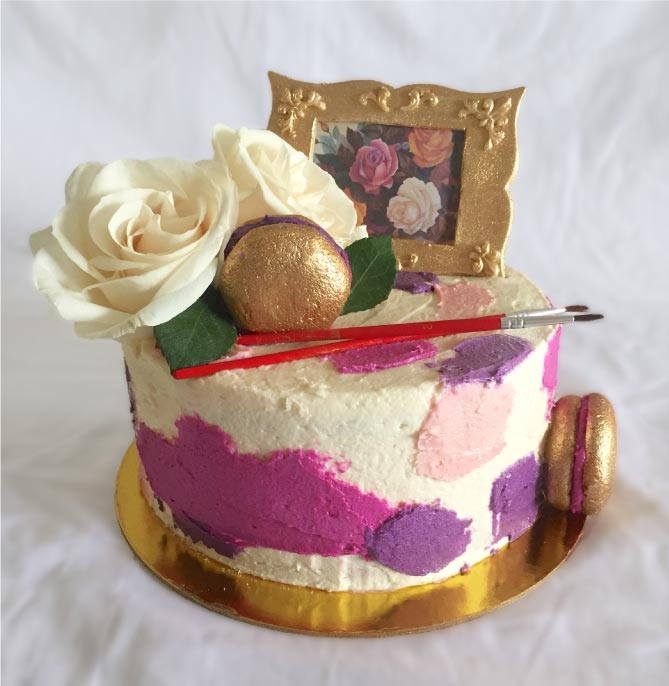
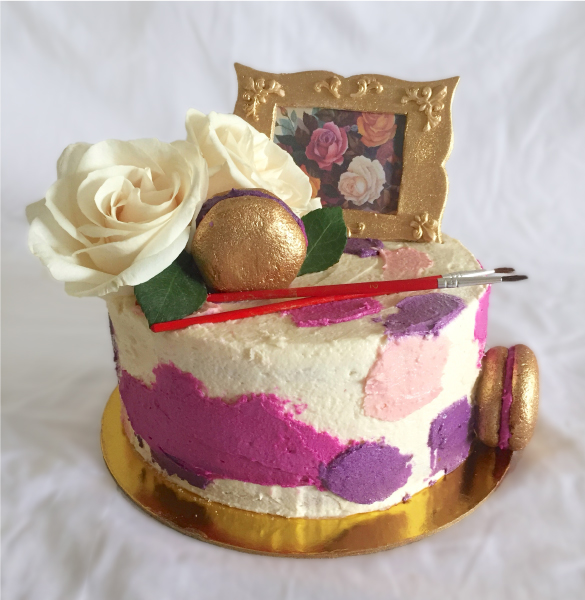
resize imgs and fixed some margin

diff --git a/sass/index.css b/sass/index.css
@@ -1050,8 +1050,7 @@ body {
             align-items: center;
   }
   .container .main__seller .products-row .products-row__column--main {
-    margin-top: 30px;
-    margin-bottom: 30px;
+    margin: 30px 0px;
   }
   .container .main__seller .seller__ourMenuBtn {
     font-size: 18px;
@@ -1169,16 +1168,13 @@ body {
     width: auto;
   }
   .container .main__experience .experience__content .content__radiobtn {
-    -webkit-box-orient: horizontal;
-    -webkit-box-direction: normal;
-        -ms-flex-direction: row;
-            flex-direction: row;
     -webkit-box-pack: justify;
         -ms-flex-pack: justify;
             justify-content: space-between;
+    margin: 0px 16px;
   }
   .container .main__experience .experience__content .content__radiobtn .radiobtn__one {
-    margin: 0px 20px 0px 0px;
+    margin: 0px 0px 20px 0px;
   }
   .container .main__info {
     width: 100%;

diff --git a/sass/index.scss b/sass/index.scss
@@ -880,8 +880,7 @@ body {
 
                 .products-row__column {
                     &--main {
-                        margin-top: 30px;
-                        margin-bottom: 30px;
+                        margin: 30px 0px;
                     }
                 }
             } 
@@ -1027,11 +1026,12 @@ body {
                 }
 
                 .content__radiobtn {
-                    flex-direction: row;
+                    //flex-direction: row;
                     justify-content: space-between;
+                    margin: 0px 16px;
 
                     .radiobtn__one {
-                        margin: 0px 20px 0px 0px;
+                        margin: 0px 0px 20px 0px;
                     }
                 }
             }

diff --git a/index.html b/index.html
@@ -39,6 +39,8 @@
             </div>
             
         </header>
+
+    <!-------------BANNER----------->
         <main class="main">
             <section class="main__banner" style="background-image: url(imgs/BannerNew.jpg);">
                 <div class="banner__text">
